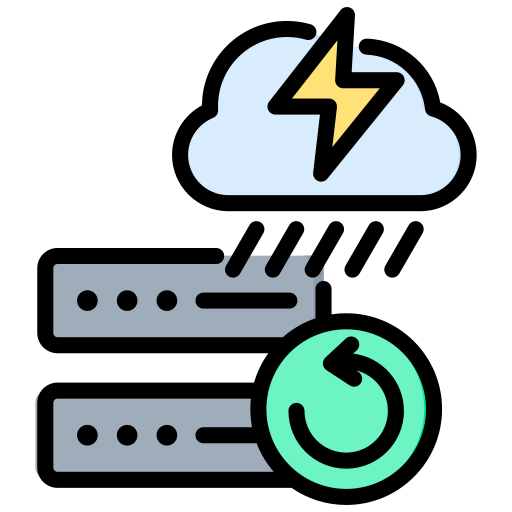
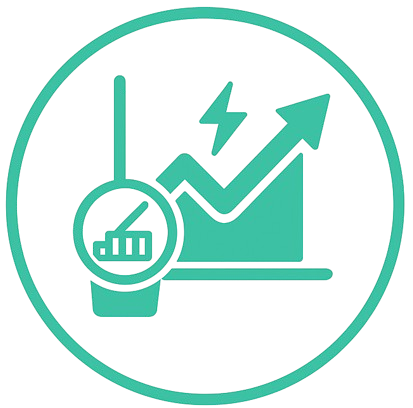
Dashboard ct finished

diff --git a/resources/views/components/stats-ct.blade.php b/resources/views/components/stats-ct.blade.php
@@ -1,3 +1,26 @@
+<style>
+.sort-arrow2 {
+    display: inline-block;
+    width: 10px;
+    height: 10px;
+    border-right: 2px solid white;
+    border-bottom: 2px solid white;
+    transform: rotate(45deg);
+    transition: transform 0.2s ease;
+}
+
+/* Ascendente */
+.sort-arrow2.asc {
+    transform: rotate(-135deg);
+}
+
+/* Descendente */
+.sort-arrow2.desc {
+    transform: rotate(45deg);
+}
+</style>
+
+
 {{-- SEGUNDA FILA --}}
                         <div class="grid grid-cols-1 md:grid-cols-1 gap-6 mb-6">
                             {{-- 1º cuadro --}}
@@ -21,71 +44,123 @@
                                             <table id="testTableEstadisticasCt" class="w-full text-white text-center">
                                                 <thead style="border-bottom: 1px solid #ffffff;">
                                                     <tr>
-                                                        <th class="mt-0 text-xl font-bold text-center"
-                                                            style="color:rgb(88,226,194); padding: 10px">
-                                                            NOMBRE CT</th>
-                                                        <th class="mt-0 text-xl font-bold text-center"
-                                                            style="color:rgb(88,226,194); padding: 10px">
-                                                            FECHA LECTURA</th>
-                                                        <th class="mt-0 text-xl font-bold text-center"
-                                                            style="color:rgb(88,226,194); padding: 10px">
-                                                            LECTURAS S02 </th>
-                                                        <th class="mt-0 text-xl font-bold text-center"
-                                                            style="color:rgb(88,226,194); padding: 10px">
-                                                            % S02 </th>
-                                                        <th class="mt-0 text-xl font-bold text-center"
-                                                            style="color:rgb(88,226,194); padding: 10px">
-                                                            LECTURAS S05 </th>
-                                                        <th class="mt-0 text-xl font-bold text-center"
-                                                            style="color:rgb(88,226,194); padding: 10px">
-                                                            % S05 </th>
-                                                        <th class="mt-0 text-xl font-bold text-center"
-                                                            style="color:rgb(88,226,194); padding: 10px">
-                                                            LECTURAS S04 </th>
-                                                        <th class="mt-0  text-xl font-bold text-center"
-                                                            style="color:rgb(88,226,194); padding: 10px">
-                                                            % S04</th>
+                                                        <th onclick="sortTableEstadisticas(0, this)" class="mt-0 text-xl font-bold text-center" 
+                                                            style="color:rgb(88,226,194); padding: 10px; cursor:pointer;">
+                                                            <div class="flex items-center justify-center gap-1">
+                                                                NOMBRE CT
+                                                                <span class="sort-arrow2"></span>
+                                                            </div>
+                                                        </th>
+
+                                                        <th onclick="sortTableEstadisticas(1, this)" class="mt-0 text-xl font-bold text-center"
+                                                            style="color:rgb(88,226,194); padding: 10px; cursor:pointer;">
+                                                            <div class="flex items-center justify-center gap-1">
+                                                                FECHA LECTURA
+                                                                <span class="sort-arrow2"></span>
+                                                            </div>
+                                                        </th>
+
+                                                        <th onclick="sortTableEstadisticas(2, this)" class="mt-0 text-xl font-bold text-center"
+                                                            style="color:rgb(88,226,194); padding: 10px; cursor:pointer;">
+                                                            <div class="flex items-center justify-center gap-1">
+                                                                LECTURAS S02
+                                                                <span class="sort-arrow2"></span>
+                                                            </div>
+                                                        </th>
+
+                                                        <th onclick="sortTableEstadisticas(3, this)" class="mt-0 text-xl font-bold text-center"
+                                                            style="color:rgb(88,226,194); padding: 10px; cursor:pointer;">
+                                                            <div class="flex items-center justify-center gap-1">
+                                                                % S02
+                                                                <span class="sort-arrow2"></span>
+                                                            </div>
+                                                        </th>
+
+                                                        <th onclick="sortTableEstadisticas(4, this)" class="mt-0 text-xl font-bold text-center"
+                                                            style="color:rgb(88,226,194); padding: 10px; cursor:pointer;">
+                                                            <div class="flex items-center justify-center gap-1">
+                                                                LECTURAS S05
+                                                                <span class="sort-arrow2"></span>
+                                                            </div>
+                                                        </th>
+
+                                                        <th onclick="sortTableEstadisticas(5, this)" class="mt-0 text-xl font-bold text-center"
+                                                            style="color:rgb(88,226,194); padding: 10px; cursor:pointer;">
+                                                            <div class="flex items-center justify-center gap-1">
+                                                                % S05
+                                                                <span class="sort-arrow2"></span>
+                                                            </div>
+                                                        </th>
+
+                                                        <th onclick="sortTableEstadisticas(6, this)" class="mt-0 text-xl font-bold text-center"
+                                                            style="color:rgb(88,226,194); padding: 10px; cursor:pointer;">
+                                                            <div class="flex items-center justify-center gap-1">
+                                                                LECTURAS S04
+                                                                <span class="sort-arrow2"></span>
+                                                            </div>
+                                                        </th>
+
+                                                        <th onclick="sortTableEstadisticas(7, this)" class="mt-0 text-xl font-bold text-center"
+                                                            style="color:rgb(88,226,194); padding: 10px; cursor:pointer;">
+                                                            <div class="flex items-center justify-center gap-1">
+                                                                % S04
+                                                                <span class="sort-arrow2"></span>
+                                                            </div>
+                                                        </th>
                                                     </tr>
                                                 </thead>
 
                                                 <tbody>
-                                                    @foreach ($resultadosQ9dashboard as $resultado)
-                                                        <tr class="highlight-row ">
-                                                            <td class="py-2">
-                                                                {{ !empty($resultado->nom_ct) ? $resultado->nom_ct : 'No hay datos' }}
-                                                            </td>
-                                                            <td class="py-2">
-                                                                {{ !empty($resultado->fec_lectura) ? $resultado->fec_lectura : 'No hay datos' }}
-                                                            </td>
-                                                            <td class="py-2">                                                                
-                                                                {{ !empty($resultado->lec_s02_hoy) ? $resultado->lec_s02_hoy : '0' }}
-                                                                /
-                                                                {{ !empty($resultado->total_cups_ct) ? $resultado->total_cups_ct : '0' }}
-                                                            </td>
-                                                            <td class="py-2">
-                                                                {{ !empty($resultado->porcentaje_s02) ? $resultado->porcentaje_s02 : '0' }}
-                                                                %
-                                                            </td>
-                                                            <td class="py-2">                                                                
-                                                                {{ !empty($resultado->lec_s05_hoy) ? $resultado->lec_s05_hoy : '0' }}
-                                                                /
-                                                                {{ !empty($resultado->total_cups_ct) ? $resultado->total_cups_ct : '0' }}
-                                                            </td>
-                                                            <td class="py-2">
-                                                                {{ !empty($resultado->porcentaje_s05) ? $resultado->porcentaje_s05 : '0' }}
-                                                                %
-                                                            </td>
-                                                            <td class="py-2">
-                                                                {{ !empty($resultado->lec_s04_hoy) ? $resultado->lec_s04_hoy : '0' }}
-                                                                /
-                                                                {{ !empty($resultado->total_cups_ct) ? $resultado->total_cups_ct : '0' }}
-                                                            </td>
-                                                            <td class="py-2">
-                                                                {{ !empty($resultado->porcentaje_s04) ? $resultado->porcentaje_s04 : '0' }}
-                                                                %
-                                                            </td>
-                                                        </tr>
-                                                    @endforeach
+                                                @foreach ($resultadosQ9dashboard as $resultado)
+
+                                                    @php
+                                                        $p_s02 = $resultado->porcentaje_s02 ?? 0;
+                                                        $p_s05 = $resultado->porcentaje_s05 ?? 0;
+                                                        $p_s04 = $resultado->porcentaje_s04 ?? 0;
+
+                                                        // función de color simplificada inline
+                                                        $color_s02 = $p_s02 <= 50 ? 'red' : ($p_s02 <= 90 ? 'yellow' : 'rgb(76,218,19)');
+                                                        $color_s05 = $p_s05 <= 50 ? 'red' : ($p_s05 <= 90 ? 'yellow' : 'rgb(76,218,19)');
+                                                        $color_s04 = $p_s04 <= 50 ? 'red' : ($p_s04 <= 90 ? 'yellow' : 'rgb(76,218,19)');
+                                                    @endphp
+
+                                                    <tr class="highlight-row">
+                                                        <td class="py-2">
+                                                            {{ $resultado->nom_ct ?? 'No hay datos' }}
+                                                        </td>
+
+                                                        <td class="py-2">
+                                                            {{ $resultado->fec_lectura ?? 'No hay datos' }}
+                                                        </td>
+
+                                                        <td class="py-2">
+                                                            {{ $resultado->lec_s02_hoy ?? '0' }} /
+                                                            {{ $resultado->total_cups_ct ?? '0' }}
+                                                        </td>
+
+                                                        <td class="py-2" style="color: {{ $color_s02 }};">
+                                                            {{ $p_s02 }} %
+                                                        </td>
+
+                                                        <td class="py-2">
+                                                            {{ $resultado->lec_s05_hoy ?? '0' }} /
+                                                            {{ $resultado->total_cups_ct ?? '0' }}
+                                                        </td>
+
+                                                        <td class="py-2" style="color: {{ $color_s05 }};">
+                                                            {{ $p_s05 }} %
+                                                        </td>
+
+                                                        <td class="py-2">
+                                                            {{ $resultado->lec_s04_hoy ?? '0' }} /
+                                                            {{ $resultado->total_cups_ct ?? '0' }}
+                                                        </td>
+
+                                                        <td class="py-2" style="color: {{ $color_s04 }};">
+                                                            {{ $p_s04 }} %
+                                                        </td>
+                                                    </tr>
+                                                @endforeach
                                                 </tbody>
                                             </table>
                                         </div>

diff --git a/resources/views/dashboardct.blade.php b/resources/views/dashboardct.blade.php
@@ -1089,6 +1089,40 @@
         // Insertar filas ordenadas
         rows.forEach(row => tbody.appendChild(row));
     }
+
+    function sortTableEstadisticas(colIndex, thElement) {
+
+    const table = thElement.closest("table"); // encuentra la tabla real
+    const tbody = table.tBodies[0];
+    const rows = Array.from(tbody.rows);
+
+    // detectar dirección
+    let direction = thElement.getAttribute("data-sort") === "asc" ? "desc" : "asc";
+    thElement.setAttribute("data-sort", direction);
+
+    // resetear flechas solo en esta tabla
+    table.querySelectorAll(".sort-arrow2").forEach(arrow => {
+        arrow.classList.remove("asc", "desc");
+    });
+
+    thElement.querySelector(".sort-arrow2").classList.add(direction);
+
+    rows.sort((a, b) => {
+        let valA = a.cells[colIndex].innerText.replace('%','').trim();
+        let valB = b.cells[colIndex].innerText.replace('%','').trim();
+
+        if (!isNaN(valA) && !isNaN(valB)) {
+            valA = parseFloat(valA);
+            valB = parseFloat(valB);
+        }
+
+        return direction === "asc"
+            ? valA > valB ? 1 : -1
+            : valA < valB ? 1 : -1;
+    });
+
+    rows.forEach(row => tbody.appendChild(row));
+}
     </script>
 
 
@@ -1456,11 +1490,21 @@
                                                 </div>
                                             </div>
                                             <div class="flex justify-around items-center mx-0 m-2 text-white pt-2">
+                                                <!-- Botón 1 -->
+                                                <div class="flex flex-col items-center">
                                                     <button onclick="openModalEstadisticasCt()" title="Estadísticas CT">
-                                                        <img src="/images/ctstats.png" alt="Estadísticas CT" class="w-10 h-10"></button>
-                                                    <button onclick="openModalRecuperacionLecturasCt()">
-                                                        <img src="/images/recuperacion.png" alt="Recuperacion Lecturas" title="Recuperacion Lecturas" class="w-10 h-10">
+                                                        <img src="/images/ctstats.png" alt="Estadísticas CT" class="w-12 h-12">
                                                     </button>
+                                                    <span class="mt-1 text-sm text-white">Estadísticas CT</span>
+                                                </div>
+
+                                                <!-- Botón 2 -->
+                                                <div class="flex flex-col items-center">
+                                                    <button onclick="openModalRecuperacionLecturasCt()" title="Recuperación Lecturas">
+                                                        <img src="/images/recuperacion.png" alt="Recuperacion Lecturas" class="w-12 h-12">
+                                                    </button>
+                                                    <span class="mt-1 text-sm text-white">Recuperación Lecturas</span>
+                                                </div>
                                             </div>
                                         </div>
                                     </div>
@@ -1603,7 +1647,11 @@
                                                         }
                                                     @endphp
                                                     <tr class="highlight-row">
-                                                        <td class="py-2">{{ $resultado->nombre_ct ?? 'No hay datos' }}</td>
+                                                        <td class="py-2">
+                                                            <a href="{{ route('informacionct', ['id_ct' => $id_ct]) }}" class="text-blue-500 underline">
+                                                                {{ $resultado->nombre_ct ?? 'No hay datos' }}
+                                                            </a>
+                                                        </td>
                                                         <td class="py-2">{{ $resultado->nro_trafos ?? '0' }}</td>
                                                         <td class="py-2">{{ $resultado->capacidad_kva ?? '0' }}</td>
                                                         <td class="py-2">{{ $resultado->nro_lineas ?? '0' }}</td>
